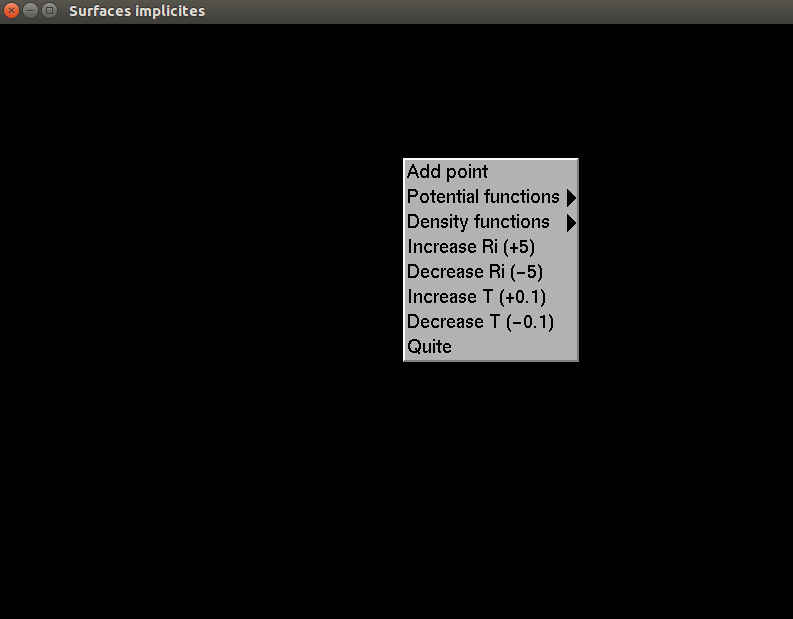
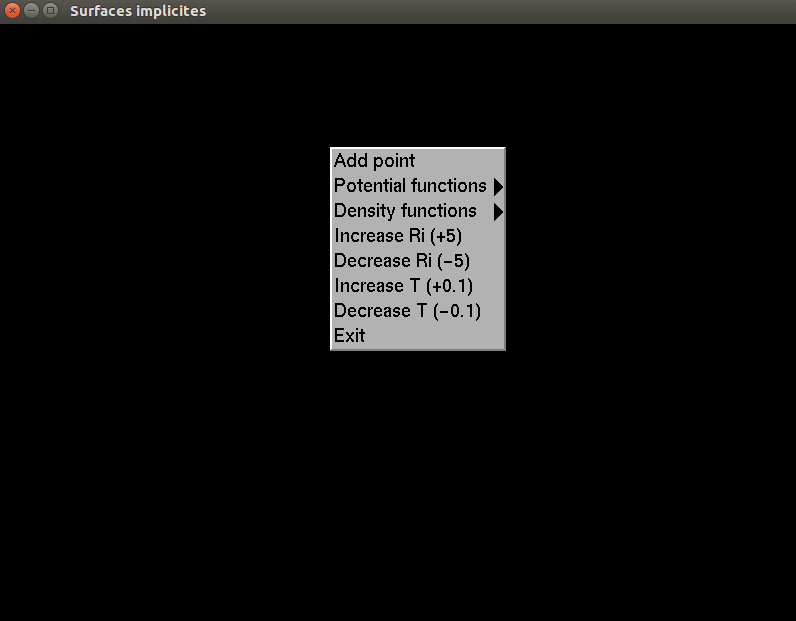
remove 'QUITE'

Changed region(s): [[0.3934, 0.2149, 0.7566, 0.5832], [0.0908, 0.0, 0.2421, 0.0307], [0.0, 0.0, 0.0605, 0.0307]]

diff --git a/surfImp.cpp b/surfImp.cpp
@@ -594,6 +594,6 @@ void createMenu()
     glutAddMenuEntry("Decrease Ri (-5) ", MENU_DECREASE_Ri);
     glutAddMenuEntry("Increase T (+0.1) ", MENU_INCREASE_T);
     glutAddMenuEntry("Decrease T (-0.1) ", MENU_DECREASE_T);
-    glutAddMenuEntry("Quite ", MENU_EXIT);
+    glutAddMenuEntry("Exit ", MENU_EXIT);
     glutAttachMenu(GLUT_RIGHT_BUTTON);
 }
